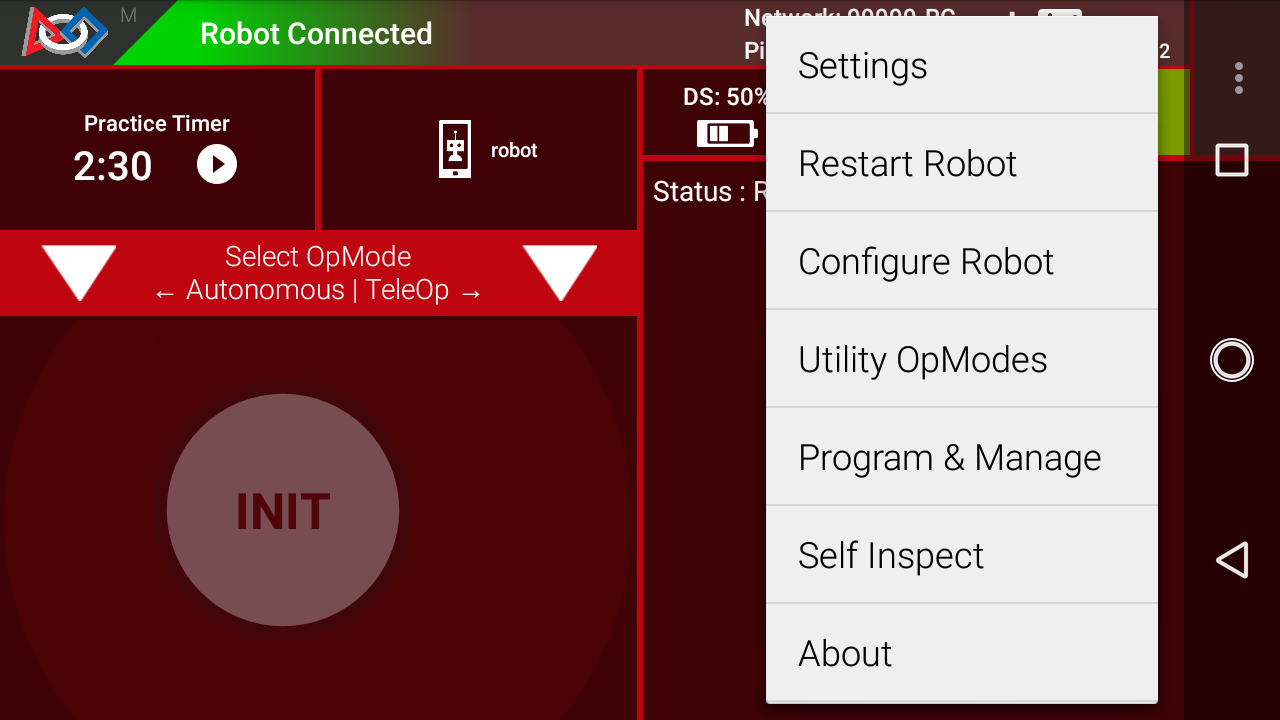
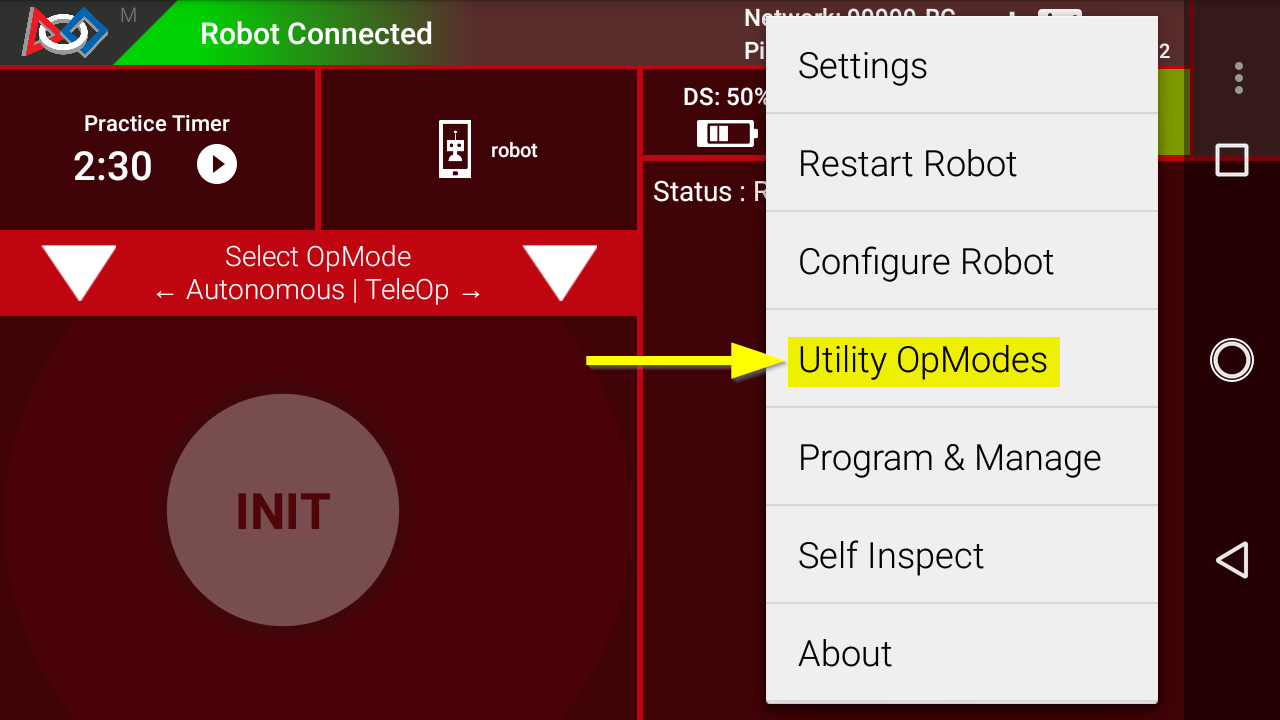
Expand Utility OpModes overview and add figure captions
Explains that Utility OpModes are for maintenance rather than
competition (so they stay out of the AUTO and TELEOP menus), where to
find them in the Settings menu, lists the two built-in utilities, and
adds captions to the two figures. Also updates the Driver Station menu
screenshot.

Changed region(s): [[0.4375, 0.4583, 0.8438, 0.55]]

diff --git a/docs/source/utility_opmodes/index.rst b/docs/source/utility_opmodes/index.rst
@@ -5,13 +5,28 @@ Starting with version 11.2 of the *FIRST* Tech Challenge :term:`SDK <SDK>`,
 Utility :term:`OpModes <OpMode>` are available to help test and troubleshoot
 your robot. Utility OpModes can be run from the :term:`Driver Station App`.
 Teams can also create their own Utility OpModes by using the ``@Utility``
-annotation in Java, or by selecting Utility as the OpMode type in Blocks.
+annotation in Java, or by selecting Utility as the OpMode type in Blocks. 
+This category of OpMode is for OpModes that are not meant for competition,
+and thus shouldn't clutter the AUTO or TELEOP menus, but instead are 
+OpModes that your team would use for maintenance or "utility" needs.
+
+These OpModes reside in the Settings menu, and are accessed by selecting 
+"Utility OpModes" in the menu. There are two built-in Utility OpModes:
+
+* Test Hardware - Test the hardware in your configuration.
+* Test Gamepad - Test your gamepad to ensure all buttons, triggers, and
+  stick axes work properly.
 
 .. figure:: images/ds_menu.png
    :alt: Driver Station menu where Utility OpModes can be found
+   :scale: 85%
+
+   Figure 1: Accessing the Utility OpModes via the Settings Menu
 
 .. figure:: images/util_list.png
    :alt: Utility OpMode dialogue in the Driver Station app
+
+   Figure 2: Accessing the list of Utility OpModes
 
 .. toctree::
    :maxdepth: 1
